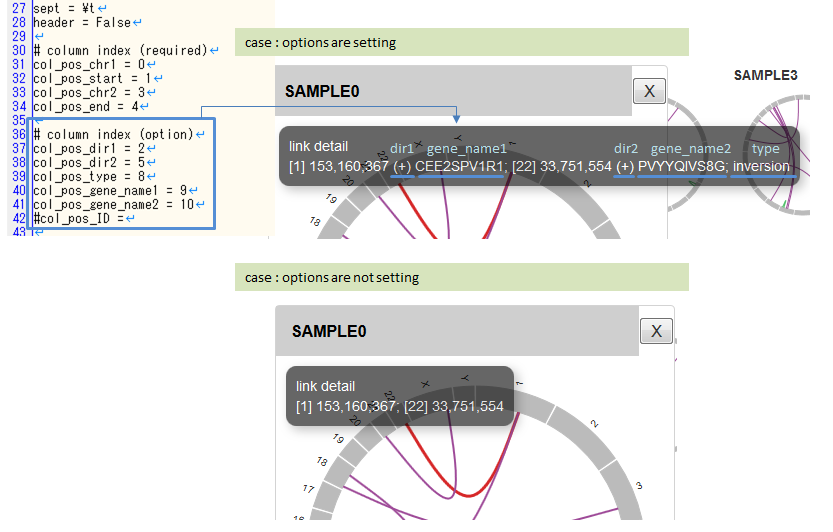
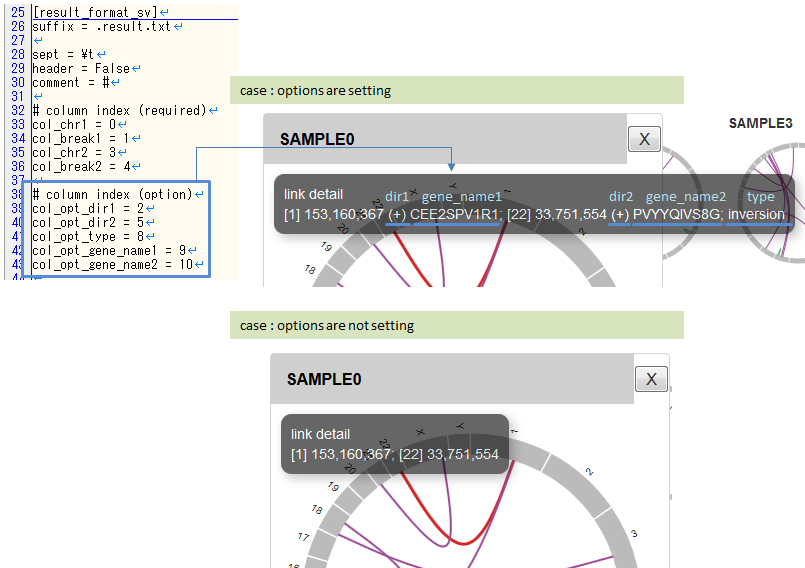
update to paplot-v0.2.8

diff --git a/config.rst b/config.rst
@@ -2,7 +2,7 @@
 自分のデータを使用する
 **************************
 
-configファイルを編集することで自分のデータを使用できます。
+自分のデータを使用するにはconfigファイルを編集して自分のファイルフォーマットを指定します。
 
 configファイルのサンプルは以下にあります。
 
@@ -25,6 +25,9 @@ configファイルのサンプルは以下にあります。
   # ~/tmp/paplot/style/rainbow.js
   path = 
   
+  # index.html の備考欄に出力するテキスト(HTMLタブ使用可)
+  remarks = 
+  
   [sv]
   # 使用するchromosomes (,で区切る)
   use_chrs = 1,2,3,4,5,6,7,8,9,10,11,12,13,14,15,16,17,18,19,20,21,22,X,Y
@@ -41,7 +44,7 @@ configファイルのサンプルは以下にあります。
   [result_format_sv]
   # sv の入力ファイルフォーマット
   
-  # suffix (col_pos_IDが指定されていない場合、suffix以前をIDとする)
+  # suffix (col_pos_IDが指定されていない場合、ファイル名のsuffixより前をIDとする)
   suffix = .result.txt
 
   # データ区切り(タブ区切りの場合)
@@ -54,17 +57,25 @@ configファイルのサンプルは以下にあります。
   # 先頭1行がヘッダかどうか (先頭行がヘッダの場合はTrue)
   header = False
   
-  # データ列の位置
-  #col_pos_ID =
-  col_pos_chr1 = 0
-  col_pos_start = 1
-  col_pos_dir1 = 2
-  col_pos_chr2 = 3
-  col_pos_end = 4
-  col_pos_dir2 = 5
-  col_pos_type = 8
-  col_pos_gene_name1 = 9
-  col_pos_gene_name2 = 10
+  # 先頭に指定文字がある行は飛ばす
+  comment = #
+  
+  ##### データ列の位置
+  # ヘッダ行がある場合、カラム名 (テキスト) を入力する
+  # ヘッダ行がない場合、カラムインデックス (数値) を入力する
+  
+  # 必須
+  col_chr1 = Chr_1
+  col_break1 = Pos_1
+  col_chr2 = Chr_2
+  col_break2 = Pos_2
+
+  # 任意
+  col_opt_dir1 = Dir_1
+  col_opt_dir2 = Dir_2
+  col_opt_type = Variant_Type
+  col_opt_gene_name1 = Gene_1
+  col_opt_gene_name2 = Gene_2
   
   [result_format_qc]
   # qc の入力ファイルフォーマット
@@ -87,27 +98,27 @@ suffixとID
 ====================  ===============  ==========  =============================
 name                  input type       required    description
 ====================  ===============  ==========  =============================
-col_pos_ID            text             x           サンプルを識別できる名称
-col_pos_chr1          text             o           chromosome of break point 1
-col_pos_start         numeric          o           position of break point 1
-col_pos_dir1          text             x           direction of break point 1
-col_pos_chr2          text             o           chromosome of break point 2
-col_pos_end           numeric          o           position of break point 2
-col_pos_dir2          text             x           direction of break point 2
-col_pos_type          text             x           type of variation
-col_pos_gene_name1    text             x           gene name of break point 1
-col_pos_gene_name2    text             x           gene name of break point 2
+col_chr1              text             o           chromosome of break point 1
+col_break1            numeric          o           position of break point 1
+col_chr2              text             o           chromosome of break point 2
+col_break2            numeric          o           position of break point 2
+col_opt_ID            text             x           サンプルを識別できる名称
+col_opt_dir1          text             x           direction of break point 1
+col_opt_dir2          text             x           direction of break point 2
+col_opt_type          text             x           type of variation
+col_opt_gene_name1    text             x           gene name of break point 1
+col_opt_gene_name2    text             x           gene name of break point 2
 ====================  ===============  ==========  =============================
 
 .. note::
   
   任意設定の5項目はポップアップでの詳細表示にのみ使用されます。
   
-   - col_pos_dir1
-   - col_pos_dir2
-   - col_pos_gene_name1
-   - col_pos_gene_name2
-   - col_pos_type
+   - col_opt_dir1
+   - col_opt_dir2
+   - col_opt_gene_name1
+   - col_opt_gene_name2
+   - col_opt_type
    
    .. image:: image/option_sv.PNG
      :scale: 100%
@@ -117,18 +128,18 @@ col_pos_gene_name2    text             x           gene name of break point 2
 ========================  =============  ==========  =============================
 name                      input type     required    description
 ========================  =============  ==========  =============================
-col_pos_ID                text           o           サンプルを識別できる名称
-col_pos_total_reads       numeric        o           number of total reads
-col_pos_mapped_reads      numeric        o           number of mapped reads
-col_pos_duplicate_reads   numeric        o           number of duplicate reads
-col_pos_mean_insert_size  numeric        o           mean of insert size
-col_pos_average_depth     numeric        o           average of depth
-col_pos_read_length_r1    numeric        o           number of read_length_r1
-col_pos_read_length_r2    numeric        o           number of read_length_r2
-col_pos_ratio_2x          0.0～1.0       o           coverage (depth=2)
-col_pos_ratio_10x         0.0～1.0       o           coverage (depth=10)
-col_pos_ratio_20x         0.0～1.0       o           coverage (depth=20)
-col_pos_ratio_30x         0.0～1.0       o           coverage (depth=30)
+col_total_reads           numeric        o           number of total reads
+col_mapped_reads          numeric        o           number of mapped reads
+col_duplicate_reads       numeric        o           number of duplicate reads
+col_mean_insert_size      numeric        o           mean of insert size
+col_average_depth         numeric        o           average of depth
+col_read_length_r1        numeric        o           number of read_length_r1
+col_read_length_r2        numeric        o           number of read_length_r2
+col_ratio_2x              0.0～1.0       o           coverage (depth=2)
+col_ratio_10x             0.0～1.0       o           coverage (depth=10)
+col_ratio_20x             0.0～1.0       o           coverage (depth=20)
+col_ratio_30x             0.0～1.0       o           coverage (depth=30)
+col_opt_ID                text           x           サンプルを識別できる名称
 ========================  =============  ==========  =============================
 
 

diff --git a/install.rst b/install.rst
@@ -60,7 +60,8 @@ Linux系の場合 (HGCスパコン, cygwin含)
   
   PATH設定を忘れないようにする
   
-  | ↑で設定したPATHは再ログイン時に再設定されるよう設定ファイルに記入しておくことをお勧めします。
+  | ↑でexport設定したPATHとLD_LIBRARY_PATHはログアウトすると忘れてしまいます。
+  | 再ログイン時に再設定されるよう設定ファイルに記入しておくことをお勧めします。
   | ``~/.bashrc`` もしくは ``~/.bash_profile`` ファイルに次の2行を記入してください。
   |
 
@@ -91,7 +92,7 @@ https://github.com/Genomon-Project/paplot/releases/
 
 | ターミナルを起動してダウンロードしたディレクトリに移動します。
 | 
-| ターミナル.appがDockの中にない場合、次からたどることができます。
+| 「ターミナル.app」がDockの中にない場合、次からたどることができます。
 | Finder → 「移動」メニュー → 「アプリケーション」を選択 → 「ユーティリティ」ディレクトリを開く → 「ターミナル」を起動
 | 
 | <user name>は自分のユーザ名です。
@@ -115,7 +116,7 @@ https://github.com/Genomon-Project/paplot/releases/
 3. PATHの設定
 ----------------
 
-| このままでは ``pa_plot`` がどこにあるかわからないので、インストールされているところにPATHを通します。
+| このままではターミナルは ``pa_plot`` がどこにあるかわからないので、インストールされているところにPATHを通します。
 | 大抵、ここにあります。
 |
 
@@ -143,6 +144,7 @@ https://github.com/Genomon-Project/paplot/releases/
   export LD_LIBRARY_PATH={installしたディレクトリ}/lib:$LD_LIBRARY_PATH
   
   # 大抵は以下でOKです。
+  # <user name>は自分のユーザ名に置き換えてください。
   # export PATH=/Users/<user name>/Library/Python/2.7/bin:$PATH
   # export LD_LIBRARY_PATH=/Users/<user name>/Library/Python/2.7/lib:$LD_LIBRARY_PATH
 

diff --git a/use_graph.rst b/use_graph.rst
@@ -17,7 +17,7 @@ SV グラフ
 | svグラフでは検出したstructural variation (SV) について棒グラフと円形のグラフで表示します。
 | 
 
-* 棒グラフではgenome毎に全サンプルでbreakpointを集計した数を表示します。
+* 棒グラフでは全サンプルでbreakpointを集計した数を表示します。
 * 円形のグラフでは、サンプルごとにbreakpoint1と2を線でつないで表示します。
 
 | 棒グラフを選択すると選択されたgenome領域にbreakpointを持つサンプルが選択されます。
@@ -28,14 +28,14 @@ SV グラフ
   :scale: 100%
 
 
-| 棒グラフを構成する要素は2つあり、svが gene 間で発生しているか、もしくは同一gene内で発生しているかで色を分けています。
+| 棒グラフを構成する要素は2つあり、SV が chromosome を超えて発生しているか、もしくは同一 chromosome 内で発生しているかで色を分けています。
 | チェックを外すと、その要素は表示されません。
 |
 
 .. image:: image/sv_operation2.PNG
   :scale: 100%
 
-| サンプルごとの円グラフについて、クリックすると拡大表示します。
+| サンプルごとの円形のグラフをクリックすると拡大表示します。
 | breakpointをつなぐ線の上にマウスを乗せると詳細を表示します。
 |
 

diff --git a/command.rst b/command.rst
@@ -8,7 +8,7 @@ pa_plot コマンド
 
 .. code-block:: bash
 
-  pa_plot {qc, sv} [-h] [--version] [--config_file CONFIG_FILE] input output_dir project_name
+  pa_plot {qc, sv} [-h] [--version] [--config_file CONFIG_FILE] [--remarks REMARKS] input output_dir project_name
 
 |
 
@@ -35,6 +35,10 @@ pa_plot コマンド
 * ``--config_file``
 
   設定ファイルです。未指定の場合、デフォルトを使用します。
+
+* ``--remarks``
+
+  index.htmlの備考欄に出力するテキストです。未指定の場合、設定ファイルの値を使用します。
 
 **その他**
 
@@ -64,7 +68,9 @@ pa_plot コマンド
     │
     ├ js          <--- この3つのディレクトリはHTMLファイルを表示するために必要です。消さないでください。
     ├ lib
-    └ style
+    ├ style
+    │
+    └ index.html             <--- index このファイルをブラウザで開いてください。
 
 
 出力ファイルを移動する場合は ``{output_dir}`` ごと移動してください。

diff --git a/style.rst b/style.rst
@@ -1,13 +1,13 @@
 ***************************
-グラフの色を変更する
+グラフをカスタマイズする
 ***************************
 
 1. 変更方法
 =======================
 
-グラフのスタイル情報はある程度変更することができます。
+色やテキストなど、グラフの見た目はある程度変更することができます。
 
-サンプルを用意していますので変更してみます。
+サンプルデータを用意していますので変更してみます。
 
 1-1. スタイルファイルを編集する
 ---------------------------------

diff --git a/qa.rst b/qa.rst
@@ -88,7 +88,7 @@ SVで表示するchromosomeを限定するにはどうしたらよいか
 
 configファイルで次の項目を編集してください。
 
-.. code-block:: config
+.. code-block:: cfg
 
   [sv]
   # 使用するchromosomes (,で区切る)
